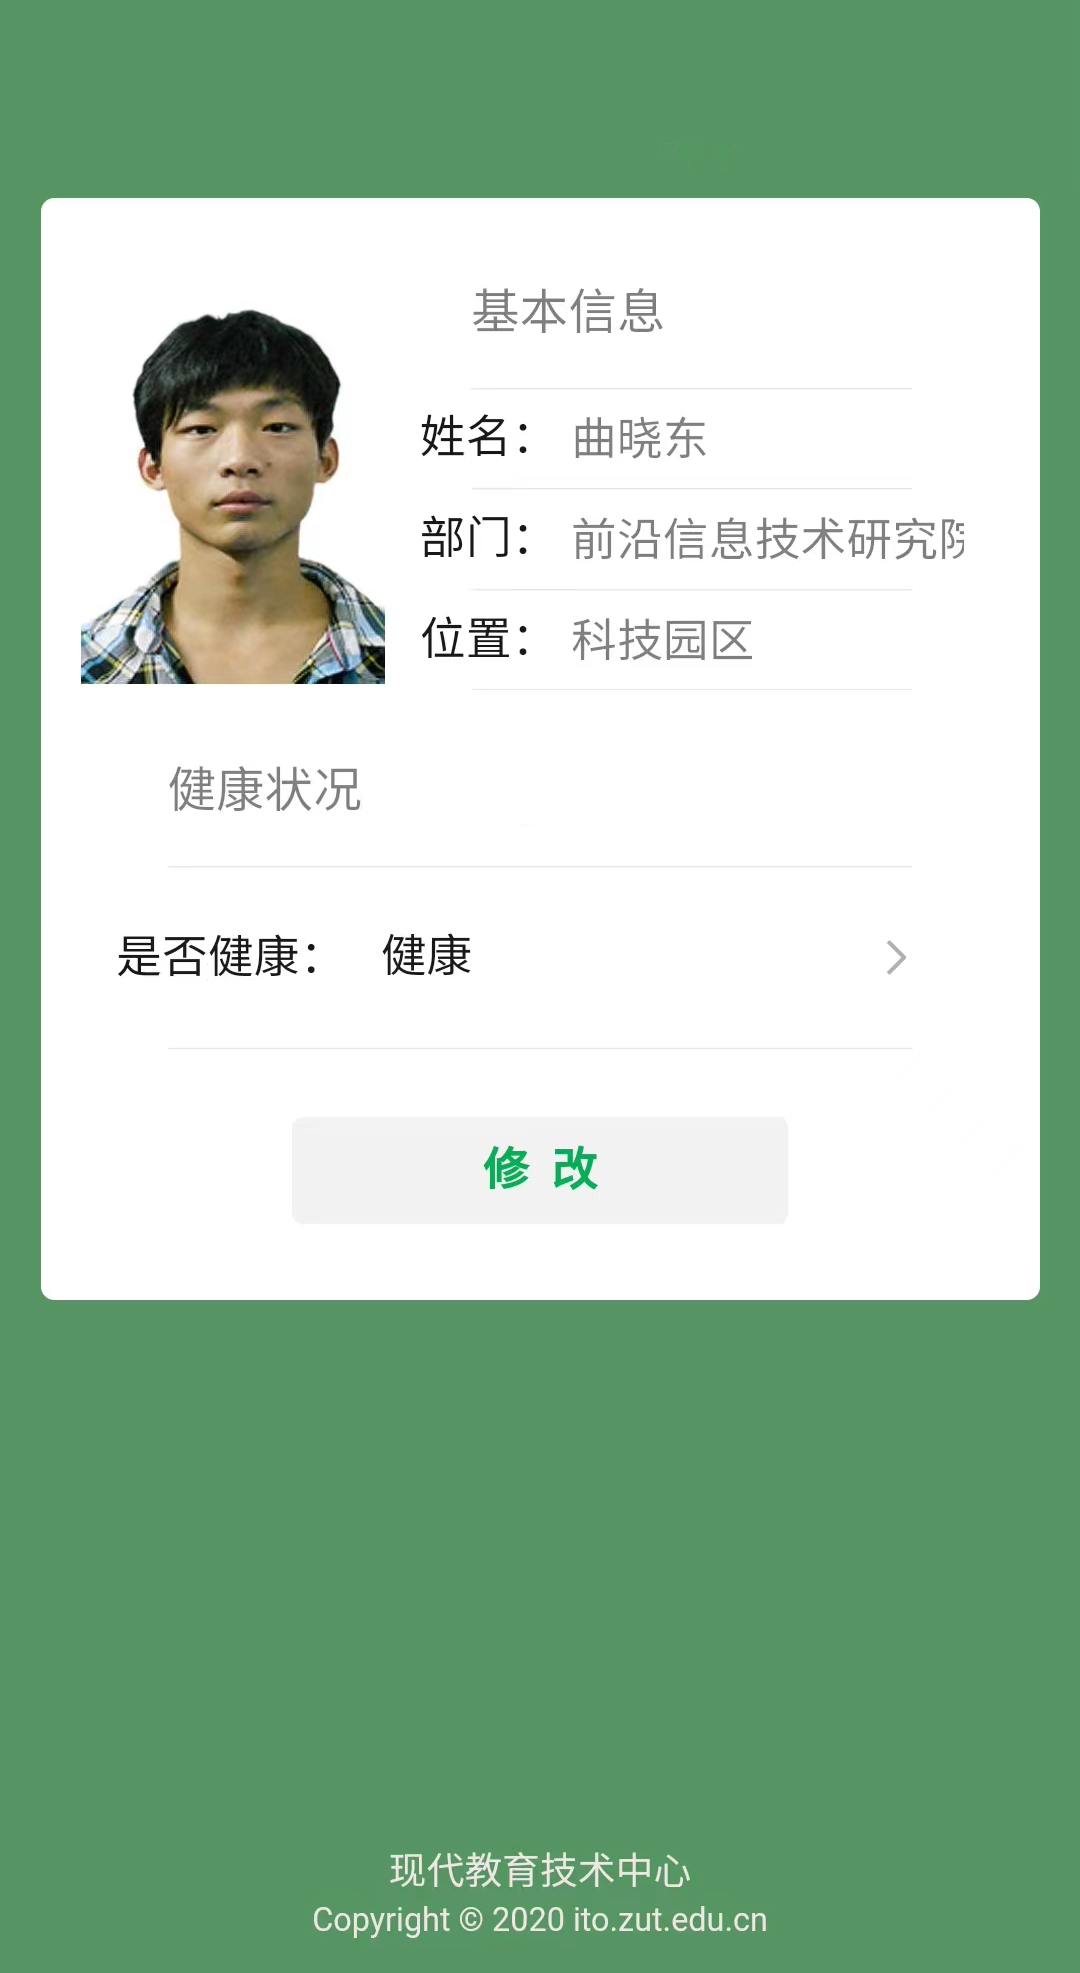
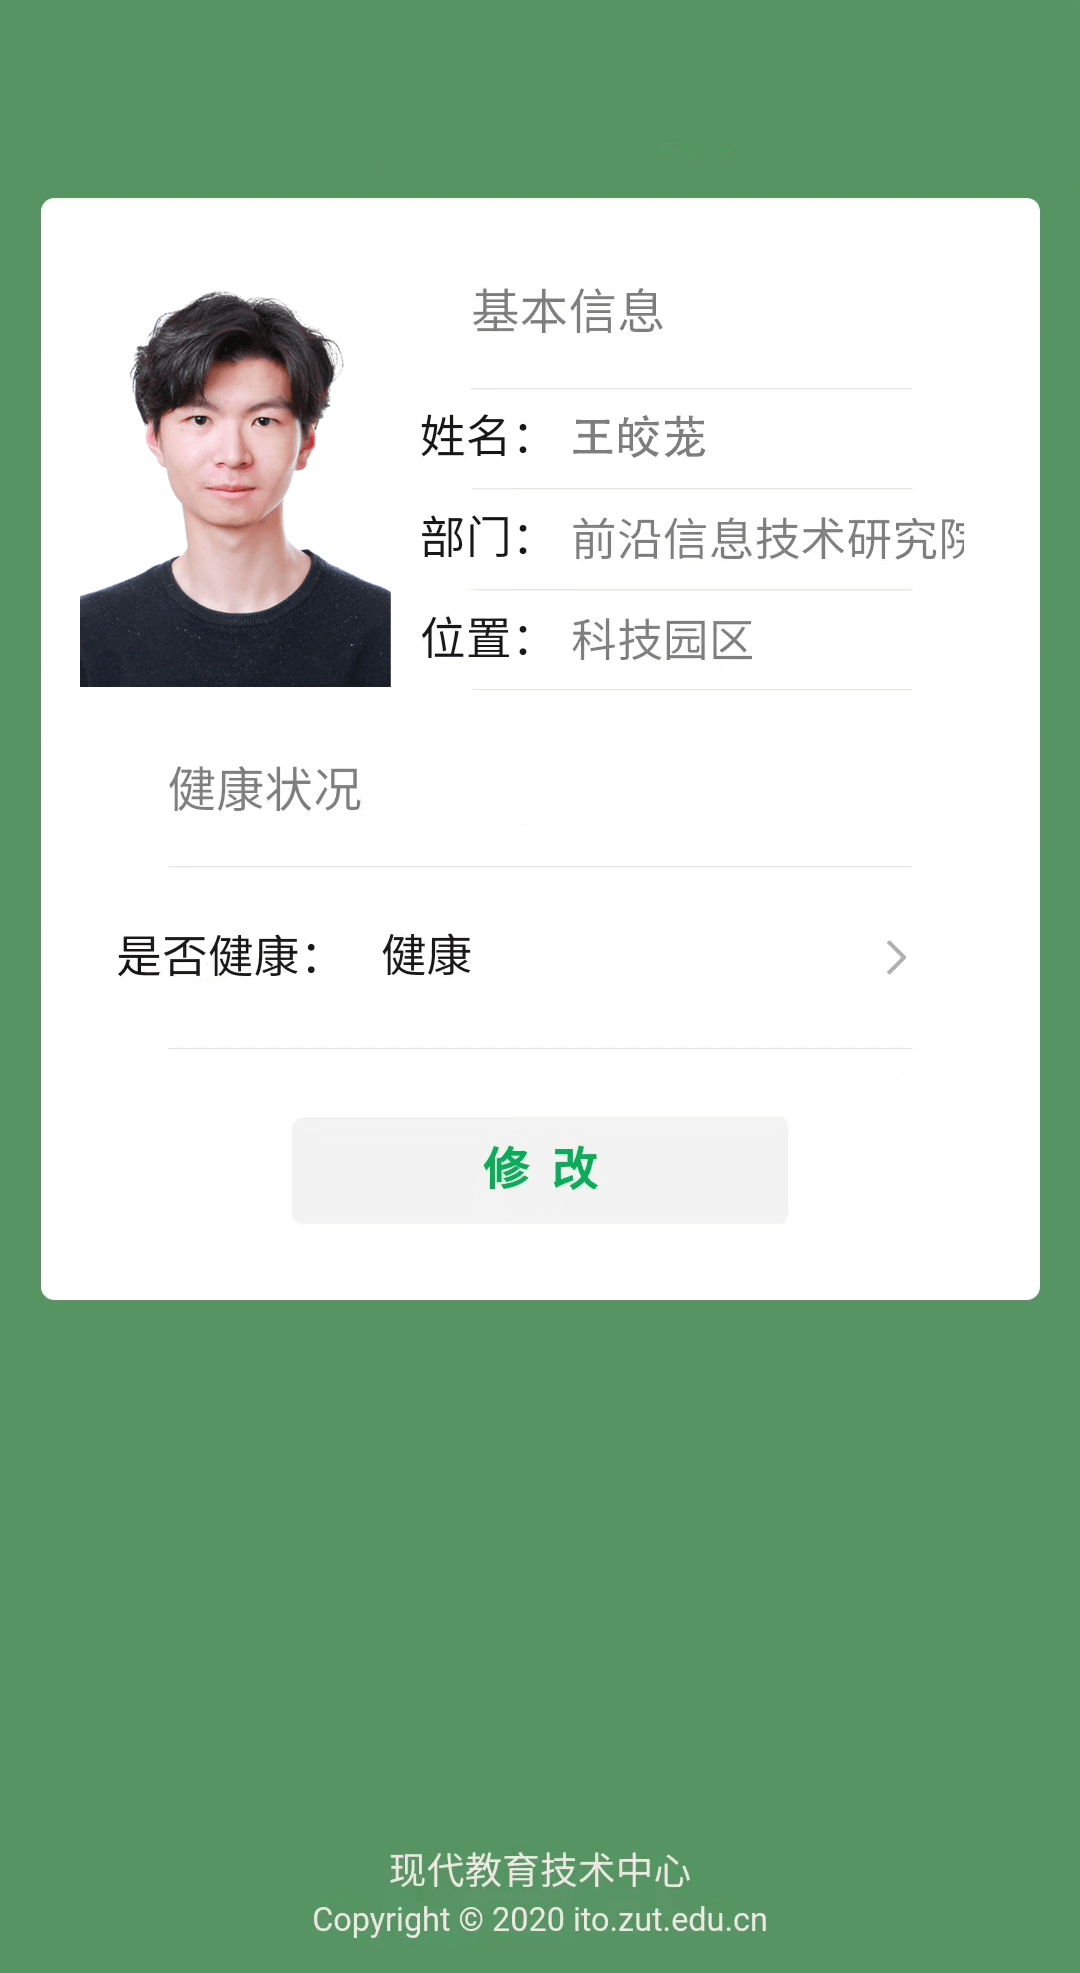
a

Changed region(s): [[0.0611, 0.1237, 0.3667, 0.371], [0.5194, 0.2164, 0.6417, 0.2473]]

diff --git a/index.html b/index.html
@@ -11,7 +11,7 @@
         }
         body{
             overflow: hidden;
-			background-image: url(wjl.png);
+			background-image: url(pic.png);
 			background-size: 100%;
 			                background-repeat: no-repeat;
 
